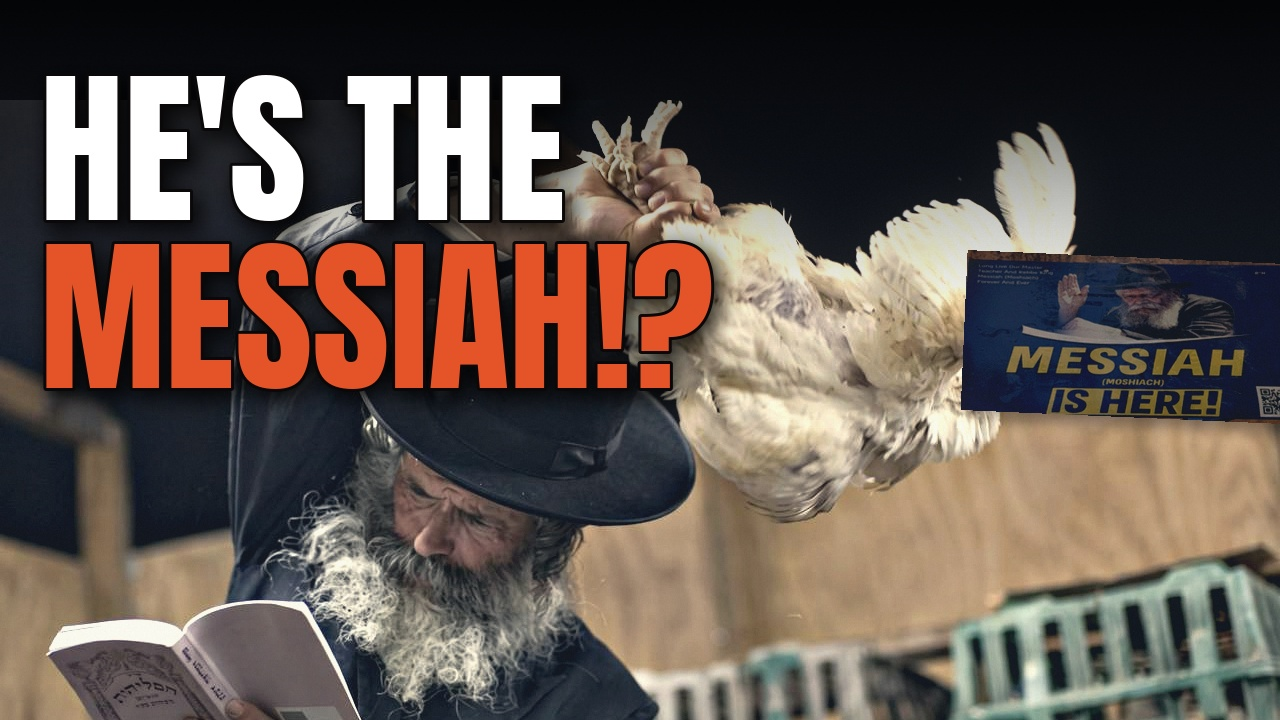
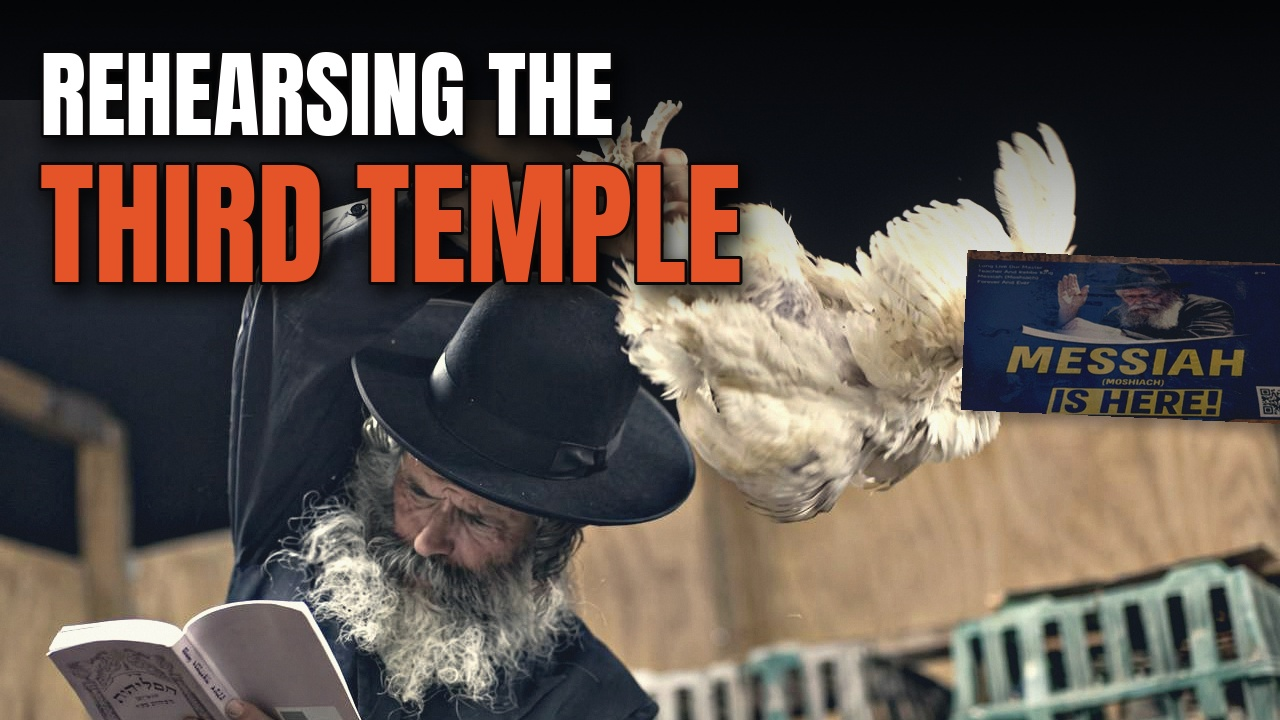
kaporos: title tail options (rescue / arrested / not WWIII); Third Temple thumbnail variants c and d
Claude-Session: https://claude.ai/code/session_01NqksmFiMo5wNisjSbQut7L

Changed region(s): [[0.0312, 0.0611, 0.5938, 0.5806]]

diff --git a/kaporos/outline.md b/kaporos/outline.md
@@ -455,6 +455,11 @@ Built from the data on 2026-10-05 (Tyler Oliveira's 50 most-viewed long-forms, t
 
 ```
 TITLE:      I Exposed the Doomsday Cult Behind America's Biggest Sacrifice...
+            + tail (hidden on phones past ~60 chars, visible on desktop/TV where half the watch time is):
+            LEAD      ... and Rescued 300 Birds          (use the number only if it is your group's count; else "Hundreds of Birds")
+            FALLBACK  ... The Rescuers Got Arrested      (only with the arrest on your own camera)
+            NOT USED  ... They Want World War III        (not delivered by the script; a promise the first 10 s can't keep)
+            Third Temple goes in thumbnail C, not the title: the title stays one idea.
 THUMBNAIL:  bird mid-swing, the Rebbe's face behind it, your face reacting,
             text: HE'S THE MESSIAH?
 ```
